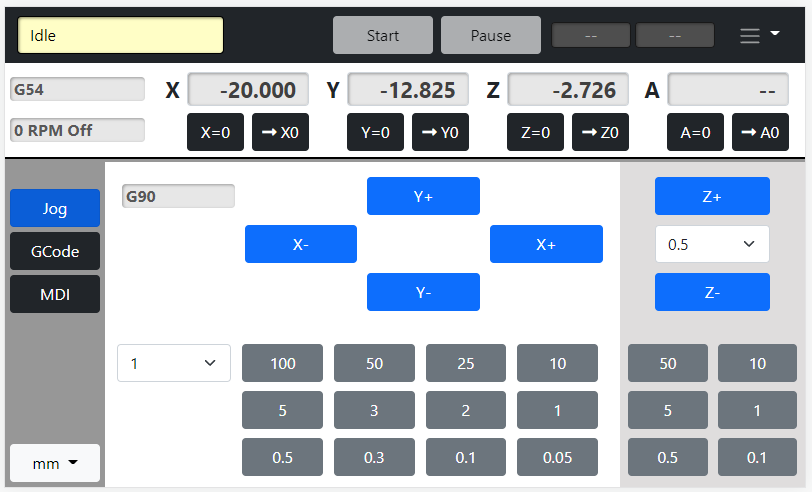
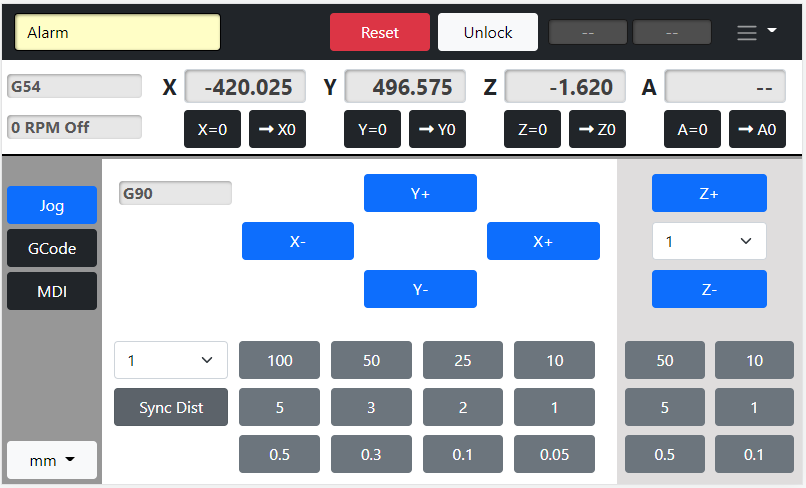
update jog sync feature

diff --git a/README.md b/README.md
@@ -19,7 +19,7 @@ Additional Features / Improvements from the cncjs-shopflor-tablet project
 * Additiona machine state infromation on the GCode tab
 * Ability to unload gcode, or handle unload events from other loaded interfaces. 
 * Reset and Unlock buttons on the top NavBar when the state is in Alarm or Stall. 
-* Seperate Z Jog Distance buttons and pulldowns from the XY axis. 
+* Seperate Z Jog Distance buttons and pulldowns from the XY axis. Ability to toggle this feature on and off.
 * User configurable Button and Pulldown values for metric and inch jog distances. 
 
 # Screen Shots
